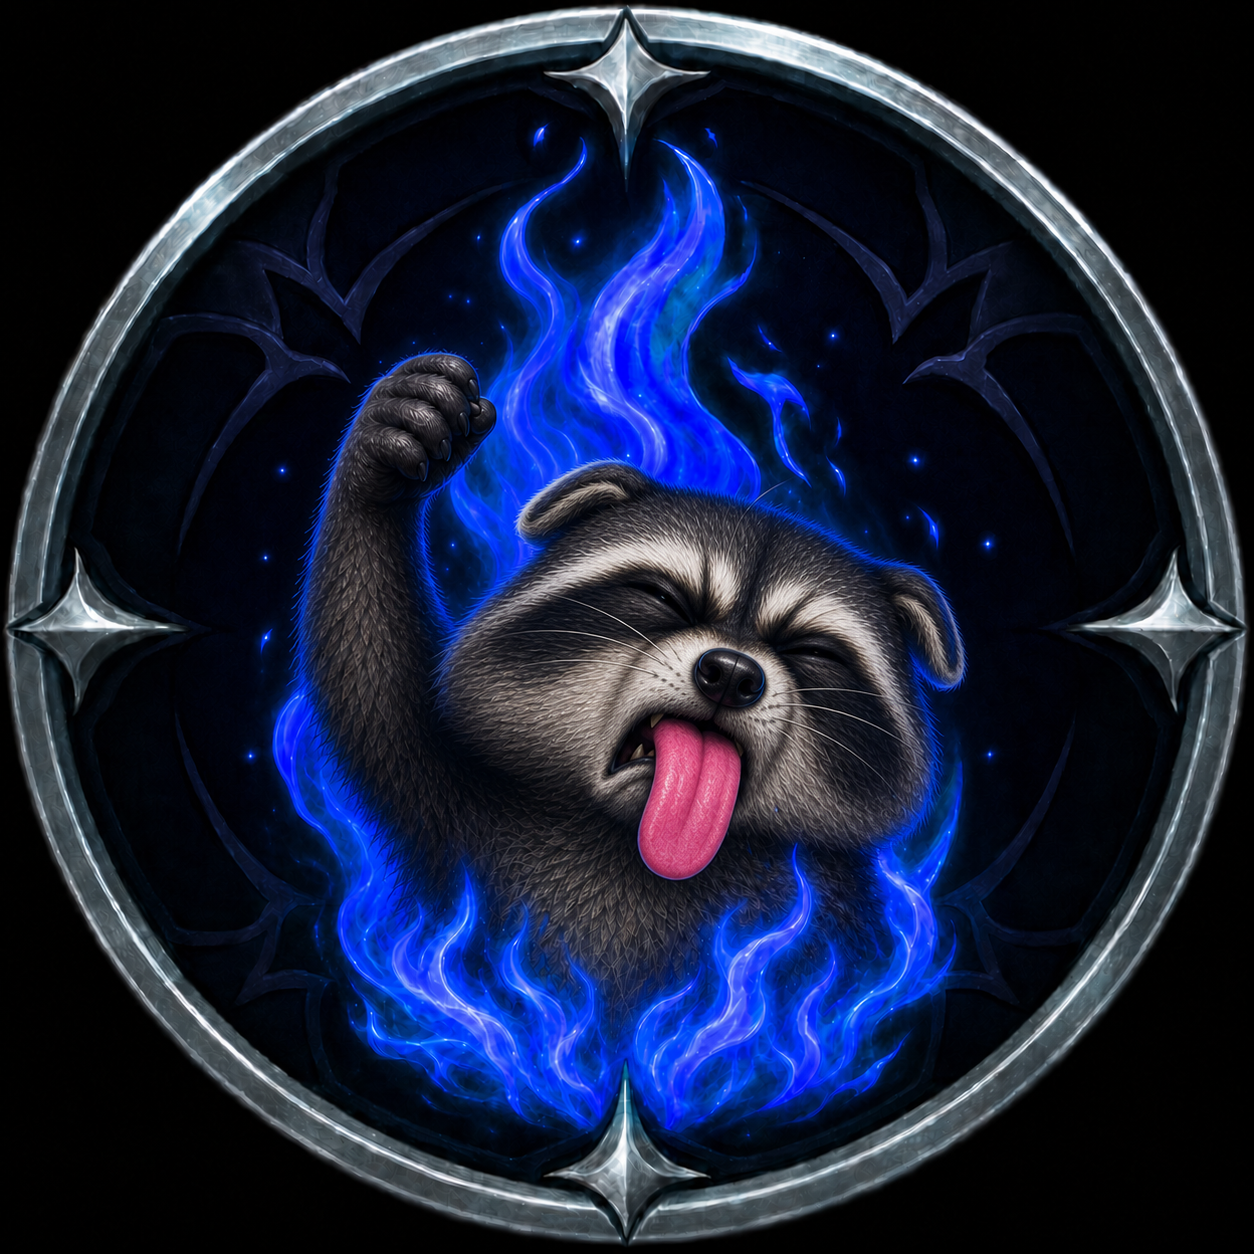
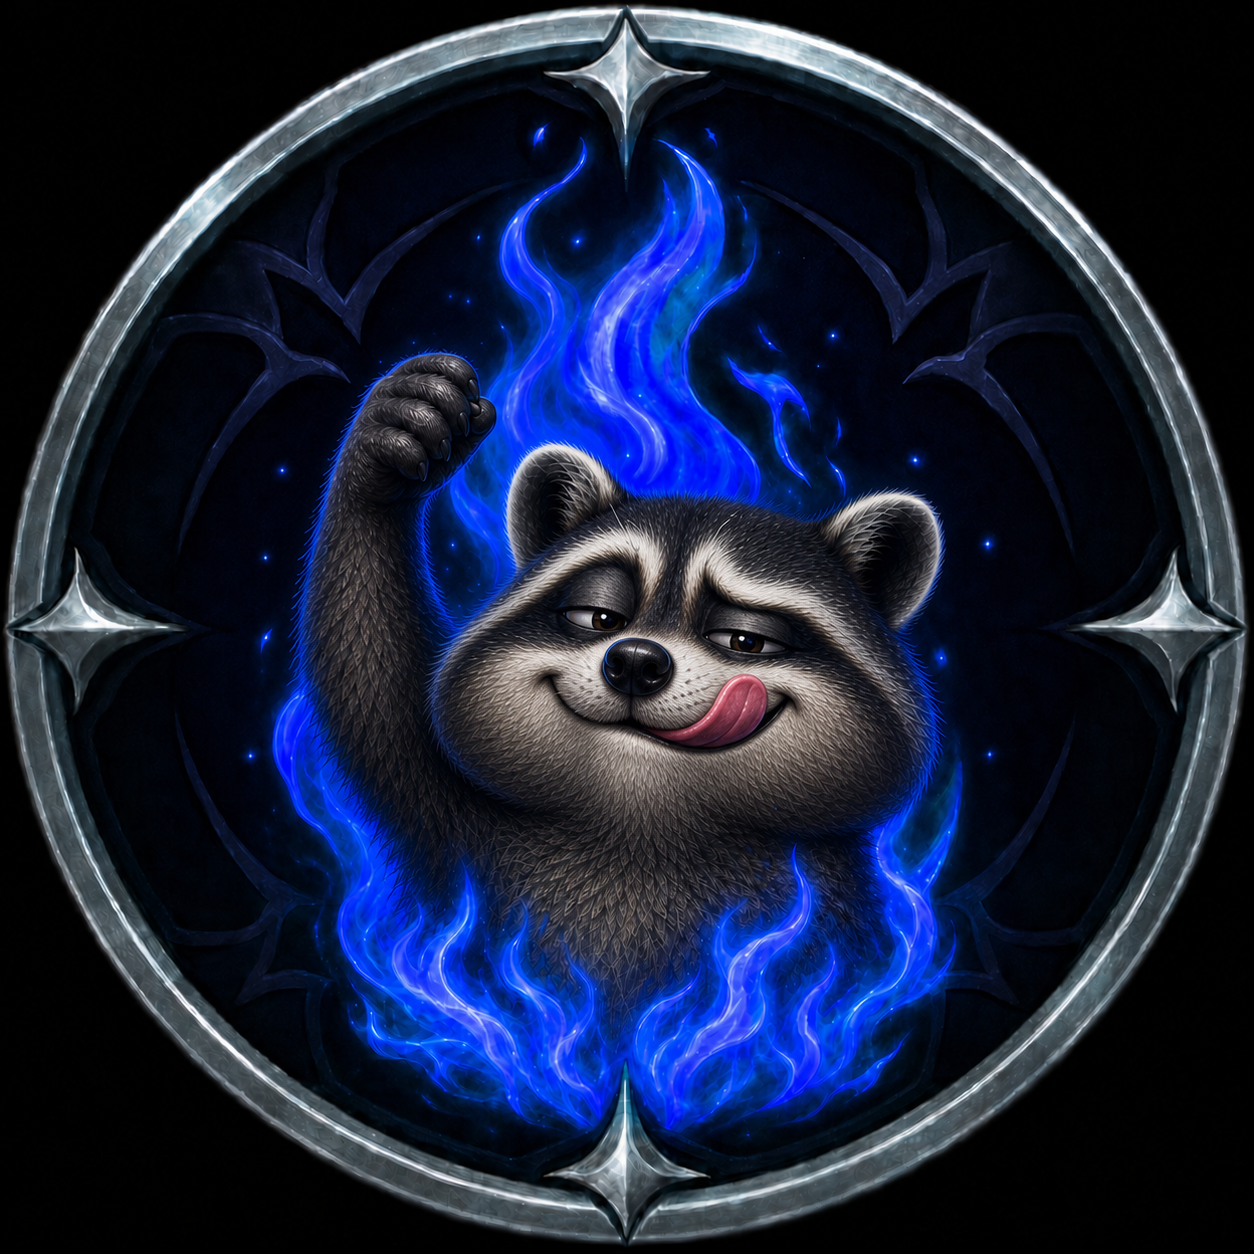
feat(icone): jauge raton v5 — payoff délice narquois (retour user)
KF-5 regénérée : plus de grimace dégoûtée — le raton SAVOURE et nargue le
spectateur (yeux mi-clos de plaisir, sourire en coin, léchage de babines,
« moi j'ai à manger et pas toi »). Reste du cycle inchangé. 1,71 Mo.

Changed region(s): [[0.3421, 0.3421, 0.7775, 0.7464]]

diff --git a/build_raton_gauge.py b/build_raton_gauge.py
@@ -7,8 +7,8 @@ la zone spirale tourne — et seule sa composante HAUTE FRÉQUENCE (la basse
 fréquence fixe porte les gradients qui trahiraient la rotation) ; (4)
 émergence par TRANSLATION à travers une « lèvre de trappe » + dissolves
 étagés sur 5 keyframes ; (6) gag : banane brandie → gueule ouverte → GULP
-(smear) → joues ballon → grimace langue rose → aspiré par le vortex
-(« chasse d'eau » : le vortex ré-accélère au flush).
+(smear) → joues ballon → délice narquois (il savoure et NARGUE le
+spectateur, léchage de babines) → aspiré par le vortex (« chasse d'eau »).
 
 Sprites = matte différentiel (|KF − statique| seuillé) ∧ masque-flamme de la
 statique : le raton/banane ne peuvent JAMAIS recouvrir le fond sombre, les
@@ -18,7 +18,7 @@ r54 l'aurait amputée — grief v2 « crop »).
 
 Entrées : Icone/Gauge_Magie_v2.webp (statique 256², JAMAIS resamplée) +
 Icone/raton_v4/KF{1..5}.raw.png (1024², chaîne gpt-image-2).
-Sortie : Icone/Gauge_Magie_Raton_v4.png (APNG 256², 64 frames, délais
+Sortie : Icone/Gauge_Magie_Raton_v5.png (APNG 256², 64 frames, délais
 variables, cycle ≈ 10,2 s).
 """
 import math
@@ -211,10 +211,10 @@ def poses(f):
     if 39 <= f <= 42:      # BEAT SACRÉ joues ballon + micro-bounce
         sc = {39: 1.00, 40: 1.03, 41: 1.01, 42: 1.00}[f]
         return [(4, 1, 0, 0, sc, False, False)]
-    if 43 <= f <= 46:      # dissolve -> grimace
+    if 43 <= f <= 46:      # dissolve -> délice narquois
         u = float(smoothstep((f - 42) / 4.0))
         return [(4, 1 - u, 0, 0, 1.0, False, False), (5, u, 0, 0, 1.0, False, False)]
-    if 47 <= f <= 49:      # BEURK + jitter
+    if 47 <= f <= 49:      # TAUNT savoureux + dandinement
         return [(5, 1, [1, -1, 1][f - 47], 0, 1.0, False, False)]
     if 50 <= f <= 54:      # FLUSH : aspiré par le vortex
         t = (f - 49) / 5.0
@@ -263,9 +263,9 @@ for k, idx in enumerate(sample_ids):
     sample.paste(frames[idx], (k * W, 0))
 master = sample.quantize(256, method=Image.MEDIANCUT)
 frames_p = [fr.quantize(palette=master, dither=Image.FLOYDSTEINBERG) for fr in frames]
-frames_p[0].save('Icone/Gauge_Magie_Raton_v4.png', format='PNG', save_all=True,
+frames_p[0].save('Icone/Gauge_Magie_Raton_v5.png', format='PNG', save_all=True,
                  append_images=frames_p[1:], duration=delays, loop=0)
-data = open('Icone/Gauge_Magie_Raton_v4.png', 'rb').read()
+data = open('Icone/Gauge_Magie_Raton_v5.png', 'rb').read()
 print(f'frames: {N} | acTL: {b"acTL" in data} | fcTL: {data.count(b"fcTL")} | '
       f'taille: {len(data)/1e6:.2f} Mo | cycle: {sum(delays)/1000:.1f} s')
 